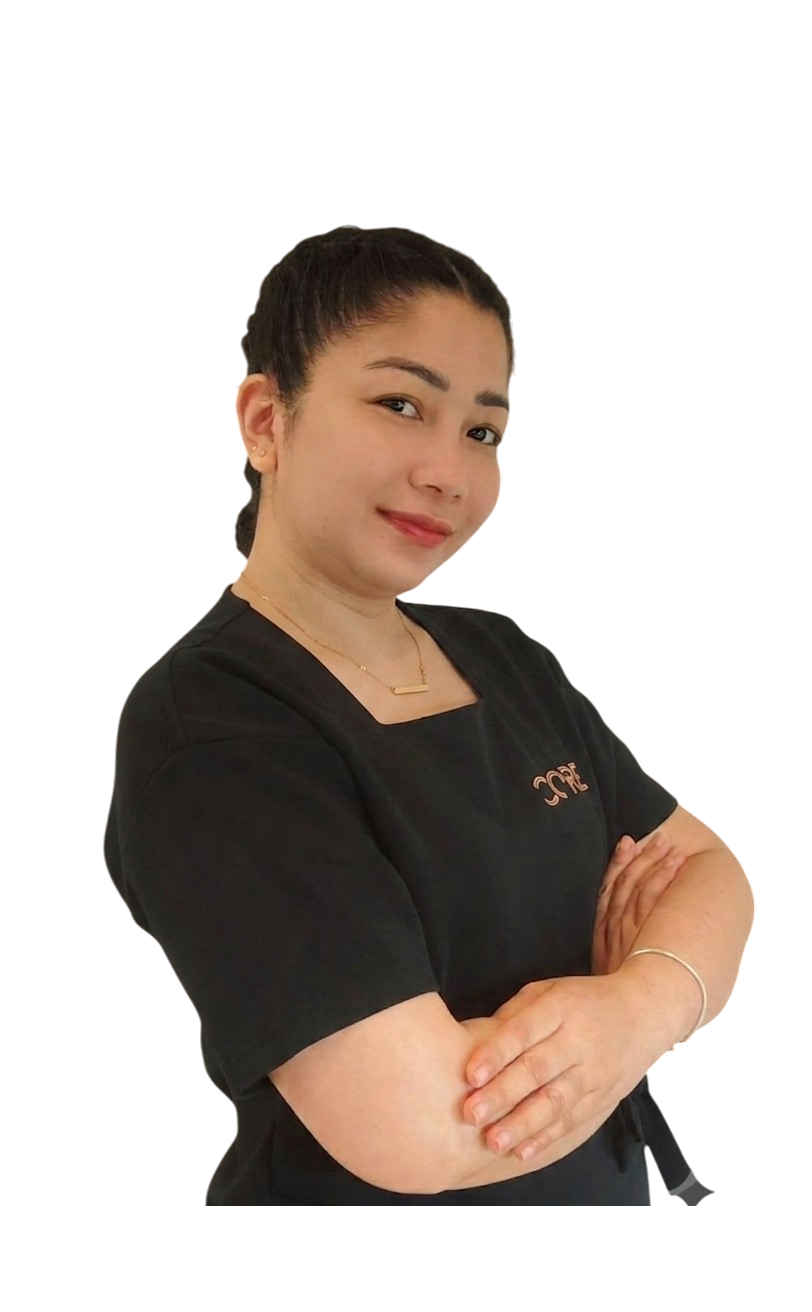
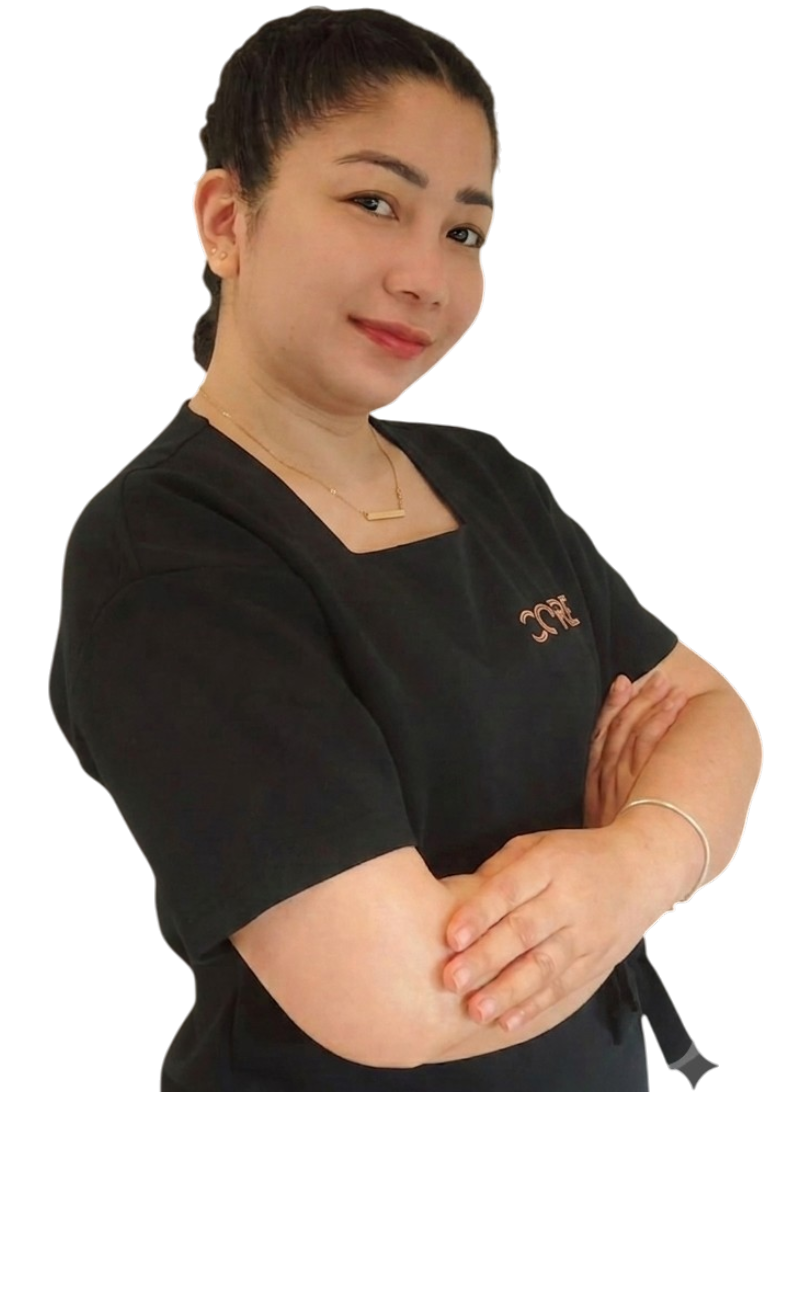
update Jean

diff --git a/team.js b/team.js
@@ -141,13 +141,17 @@ const teamData = [
     img: "./assets/team/Team/Jean.png",
     nationality: "Filipino",
     role: "Nail Technician",
-    specializations: "Russian Manicure, Nail Art, Nail Shaping & Detailing",
+    specializations: "BIAB Specialized, Russian Manicure, and Advanced Nail Artistry.",
     qualification: [
-      "BIAB, Sculpted Nails, Gel Manicure, Pedicure",
-      "Russian Manicure & Nail Art",
-      "Skin Care",
+      "BIAB Expert & Nail Strengthening",
+      "Nail Extensions (Classic & Advanced Techniques): Soft Gel, Poly Gel",
+      "Russian Manicure, Cat’s Eye, Chrome Painting",
+      "Minimalist & Elegant Nail Art",
+      "Classic & Spa Pedicure",
+      "Professional Eyebrow Threading",
+      "Precise, Hygienic Care",
     ],
-    summary: "I’m Ana Guardia, a professional nail artist from San Juan, Argentina. My passion for beauty began at 16 when I started practicing makeup and discovered my true calling — nail art. I love mixing colors and creating unique designs to achieve each client’s dream look, always with care and professionalism. With a degree in Surgical Instrumentation, I ensure proper sterilization and a clean, safe workspace."
+    summary: "Born and raised in the Philippines, Jean is a professional Nail Technician with 9 years of high-end salon experience. Known for exceptional attention to detail, strict sanitation, and a jolly personality, she strives to provide the best service and highest client satisfaction."
   },
 
   // istədiyin qədər əlavə edə bilərsən